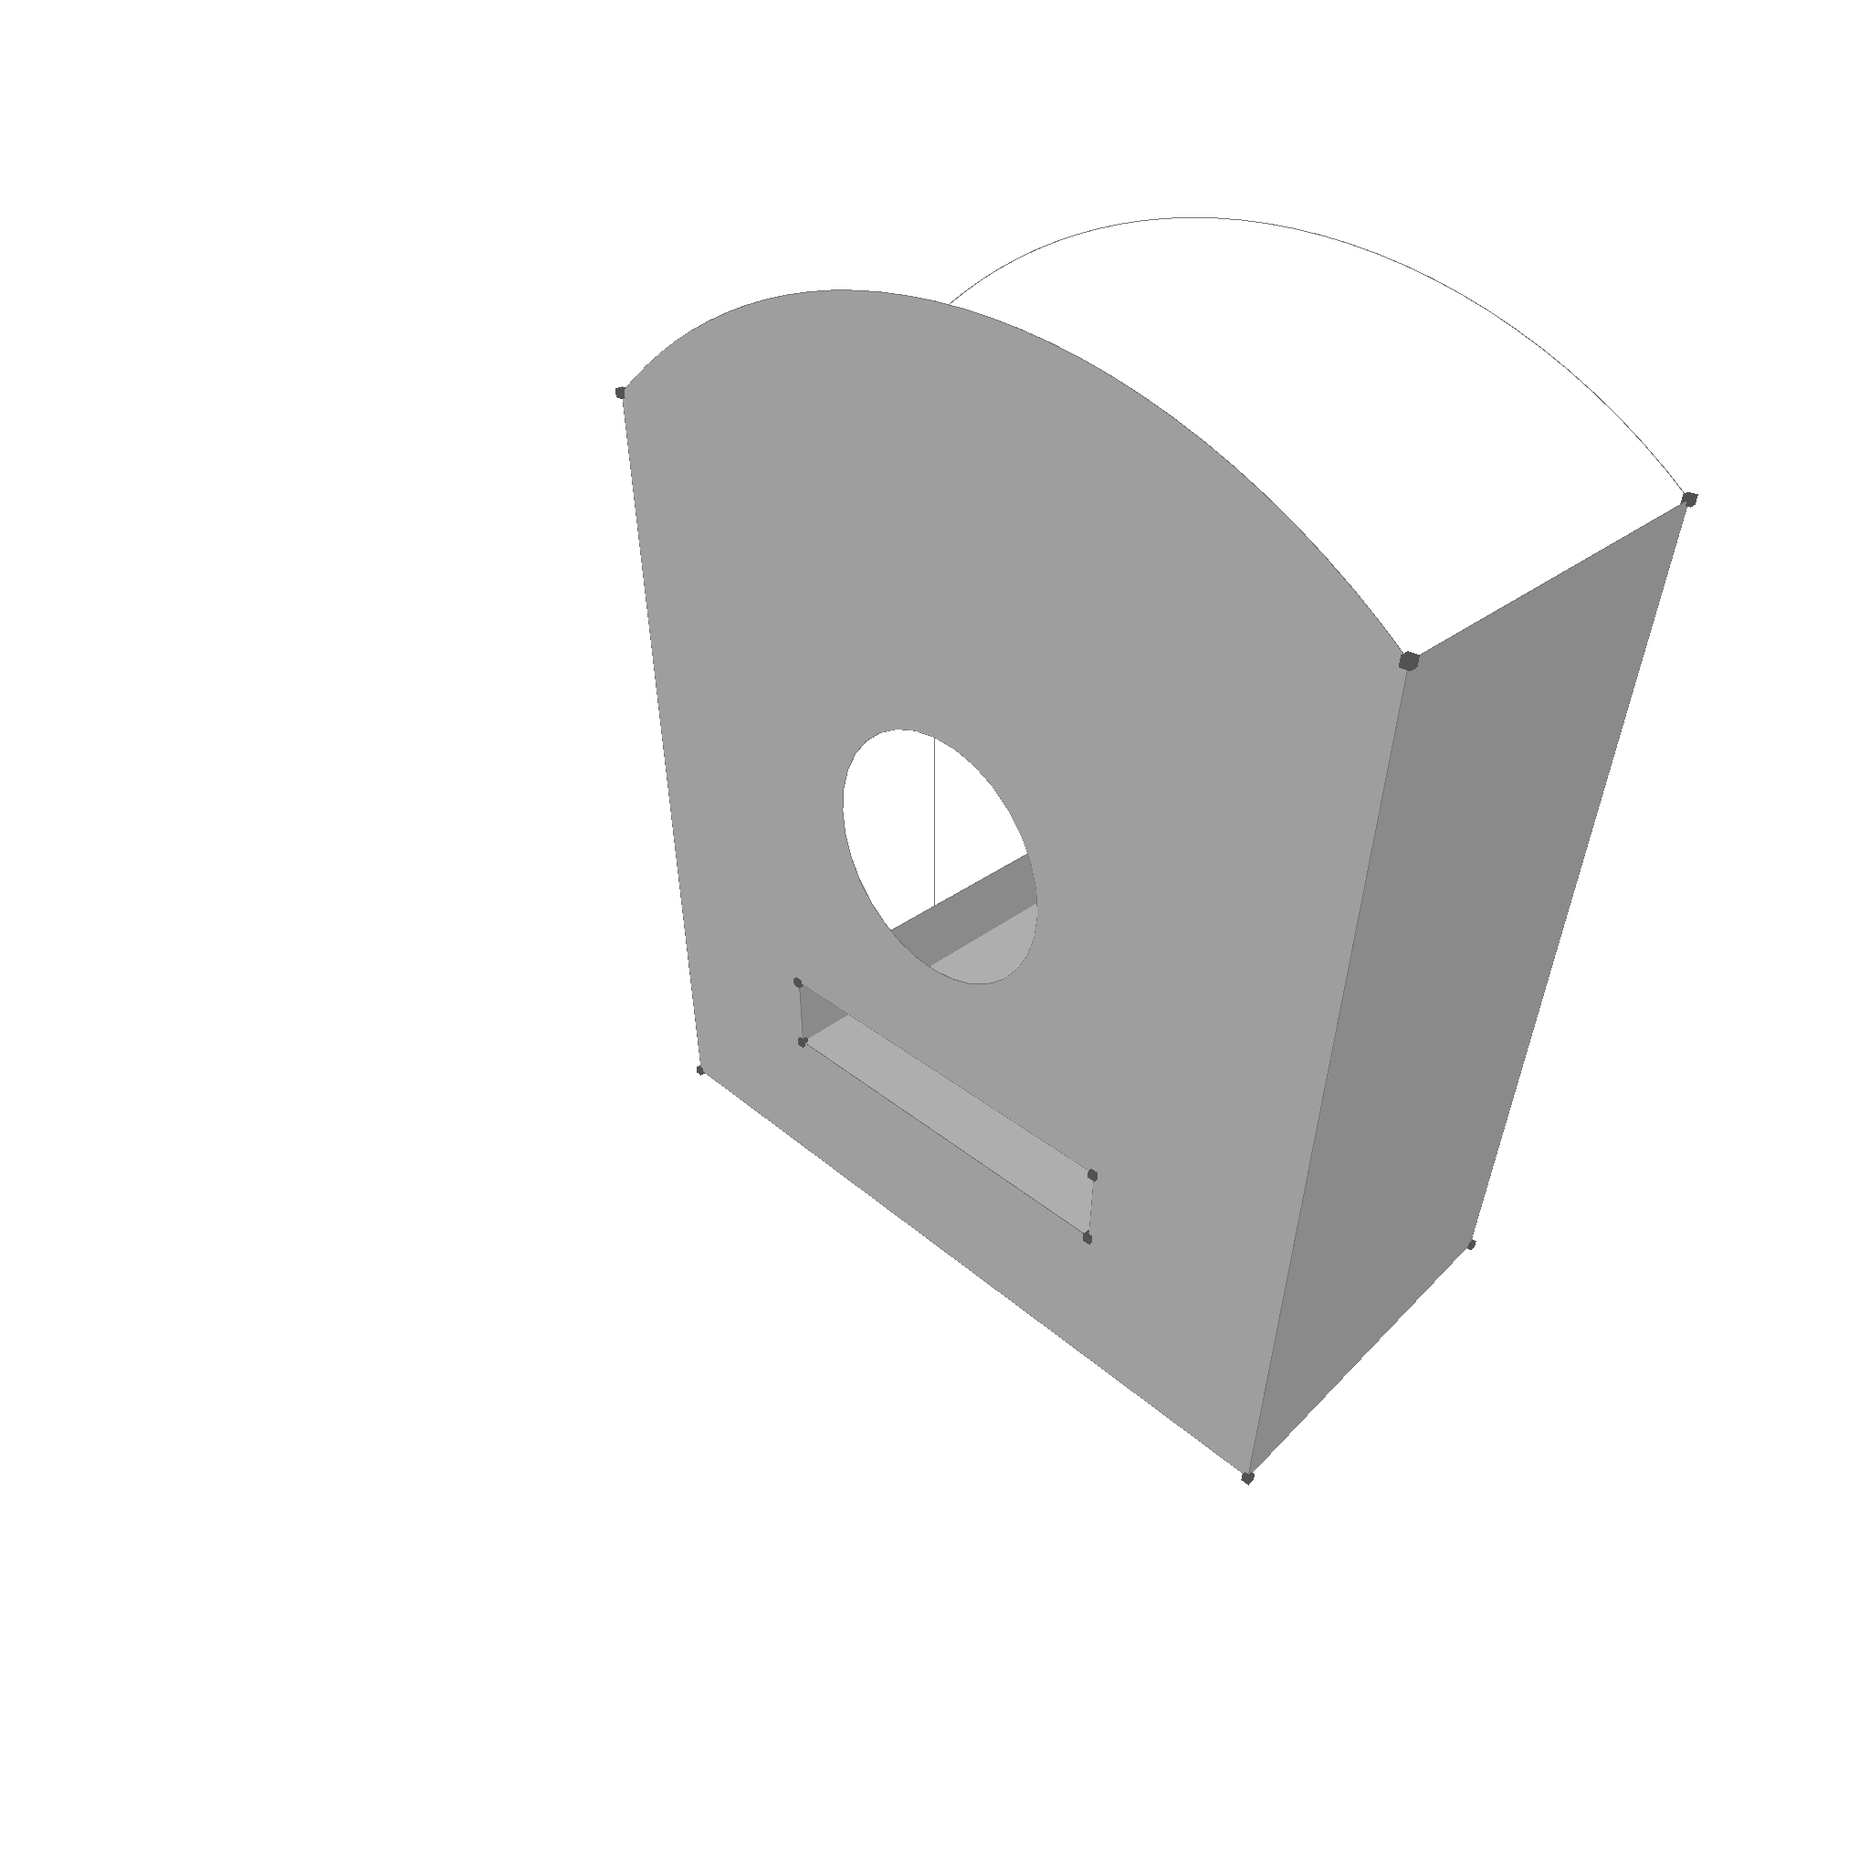
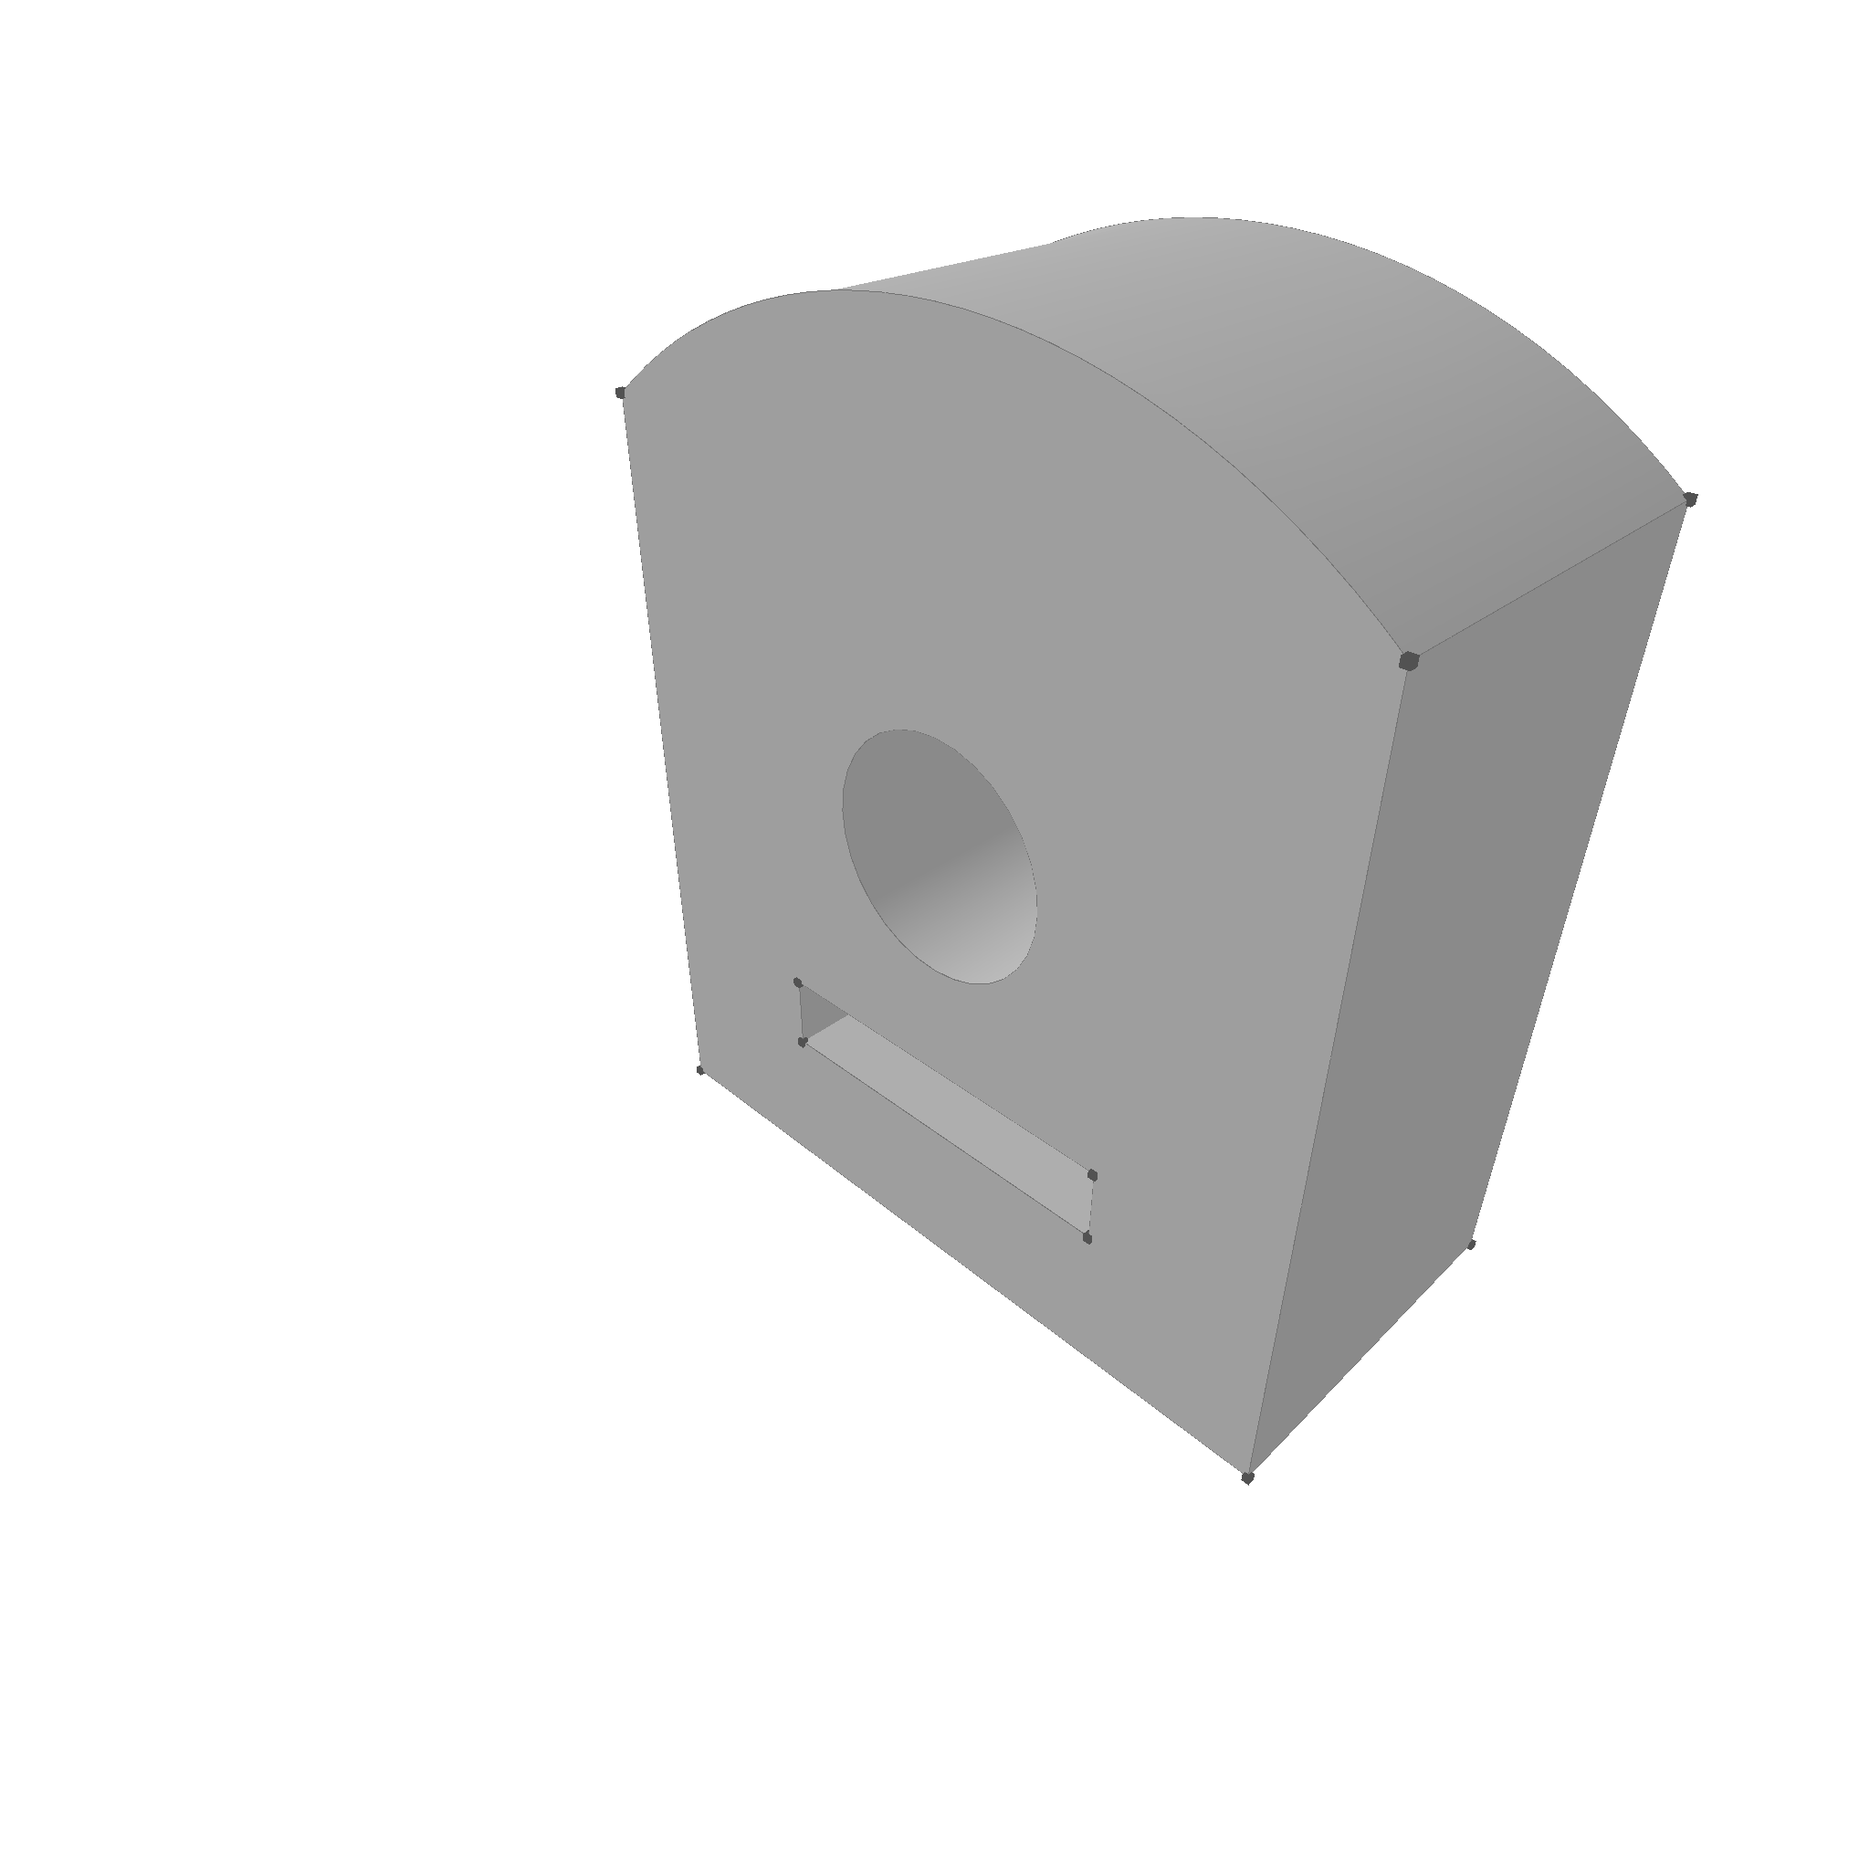
Finished adding cylinder

Changed region(s): [[0.4688, 0.0938, 0.9062, 0.3438], [0.4375, 0.375, 0.5625, 0.5312]]

diff --git a/crates/modern-brep-kernel-book/src/graphics/topology/face.rs b/crates/modern-brep-kernel-book/src/graphics/topology/face.rs
@@ -1,17 +1,19 @@
 #[cfg(test)]
 mod tests {
 
+    use core::f64;
     use std::rc::Rc;
 
     use geop_geometry::{
         points::point::Point,
-        surfaces::{plane::Plane, surface::Surface},
+        surfaces::{cylinder, plane::Plane, surface::Surface},
+        transforms::Transform,
     };
     use geop_topology::{
         primitive_objects::{
             curves::rectangle::primitive_rectangle_curve,
             edges::{arc::primitive_arc, circle::primitive_circle, line::primitive_line},
-            faces::sphere::primitive_sphere,
+            faces::{cylinder::primitive_cylinder, sphere::primitive_sphere},
         },
         topology::{
             contour::Contour,
@@ -69,6 +71,54 @@ mod tests {
         scene.faces.push((sphere, Color::light_gray()));
         scene
     }
+
+    fn cylinder_scene1() -> Scene {
+        let mut scene = Scene::new(vec![], vec![], vec![], vec![]);
+        let mut cylinder = primitive_cylinder(Point::zero(), Point::unit_z(), 1.0);
+
+        cylinder.boundary = Some(Contour::new(vec![primitive_circle(
+            Point::new(0.0, 0.0, -2.0),
+            Point::unit_z(),
+            1.0,
+        )]));
+
+        cylinder.holes.push(Contour::new(vec![primitive_circle(
+            Point::new(0.0, 0.0, 2.0),
+            -Point::unit_z(),
+            1.0,
+        )]));
+
+        scene.faces.push((cylinder, Color::light_gray()));
+        scene
+    }
+
+    fn cylinder_scene2() -> Scene {
+        let mut scene = Scene::new(vec![], vec![], vec![], vec![]);
+        let mut cylinder = primitive_cylinder(Point::zero(), Point::unit_z(), 1.0);
+
+        cylinder = cylinder.flip();
+        cylinder.boundary = Some(Contour::new(vec![primitive_circle(
+            Point::new(0.0, 0.0, -2.0),
+            -Point::unit_z(),
+            1.0,
+        )]));
+
+        cylinder.holes.push(Contour::new(vec![primitive_circle(
+            Point::new(0.0, 0.0, 2.0),
+            Point::unit_z(),
+            1.0,
+        )]));
+        cylinder = cylinder.transform(
+            Transform::from_translation(Point::new(0.3, -0.45, 0.12))
+                * Transform::from_euler_angles(-90.0 / 180.0 * f64::consts::PI, 0.0, 0.0), // * Transform::from_scale(Point::new(0.7, 0.7, 0.7)),
+        );
+
+        // cylinder = cylinder.transform(Transform::from_scale(Point::new(0.7, 0.7, 0.7)));
+
+        scene.faces.push((cylinder, Color::light_gray()));
+        scene
+    }
+
     use geop_wgpu::headless_renderer::HeadlessRenderer;
     use rstest::rstest;
 
@@ -130,6 +180,66 @@ mod tests {
                 true,
                 Point::new(4.0, -4.0, 0.0),
                 std::path::Path::new("src/generated_images/topology/face2wire.png"),
+            )
+            .await;
+    }
+
+    #[rstest]
+    async fn test_face3(#[future] renderer: Box<HeadlessRenderer>) {
+        let scene = cylinder_scene1();
+        let mut renderer = renderer.await;
+        renderer
+            .render_to_file(
+                &scene,
+                false,
+                false,
+                Point::new(3.0, -3.0, 3.0),
+                std::path::Path::new("src/generated_images/topology/face3.png"),
+            )
+            .await;
+    }
+
+    #[rstest]
+    async fn test_face3wire(#[future] renderer: Box<HeadlessRenderer>) {
+        let scene = cylinder_scene1();
+        let mut renderer = renderer.await;
+        renderer
+            .render_to_file(
+                &scene,
+                false,
+                true,
+                Point::new(3.0, -3.0, 3.0),
+                std::path::Path::new("src/generated_images/topology/face3wire.png"),
+            )
+            .await;
+    }
+
+    #[rstest]
+    async fn test_face4(#[future] renderer: Box<HeadlessRenderer>) {
+        let scene = cylinder_scene2();
+        let mut renderer = renderer.await;
+        renderer
+            .render_to_file(
+                &scene,
+                false,
+                false,
+                Point::new(3.0, -3.0, 3.0),
+                std::path::Path::new("src/generated_images/topology/face4.png"),
+            )
+            .await;
+    }
+
+    #[rstest]
+    async fn test_face4wire(#[future] renderer: Box<HeadlessRenderer>) {
+        let scene = cylinder_scene2();
+        let mut renderer = renderer.await;
+        renderer
+            .render_to_file(
+                &scene,
+                false,
+                true,
+                Point::new(3.0, -3.0, 3.0),
+                std::path::Path::new("src/generated_images/topology/face4wire.png"),
             )
             .await;
     }

diff --git a/crates/geop-topology/src/topology/face/mod.rs b/crates/geop-topology/src/topology/face/mod.rs
@@ -169,7 +169,12 @@ impl std::fmt::Display for Face {
                     p.basis,
                     p.u_slope.cross(p.v_slope)
                 )?;
-                writeln!(f, "Boundary: {:?}", self.boundary)?;
+                if let Some(boundary) = &self.boundary {
+                    writeln!(f, "Boundary:")?;
+                    for edge in boundary.edges.iter() {
+                        writeln!(f, "  {}", edge)?;
+                    }
+                }
                 for contour in self.holes.iter() {
                     writeln!(f, "Hole:")?;
                     for edge in contour.edges.iter() {
@@ -180,8 +185,20 @@ impl std::fmt::Display for Face {
             Surface::Sphere(_s) => {
                 writeln!(f, "sphere is still todo")?;
             }
-            Surface::Cylinder(_c) => {
-                writeln!(f, "cylinder is still todo")?;
+            Surface::Cylinder(c) => {
+                writeln!(f, "Cylinder at bases = {:?} with extend_dir = {:?}, radius = {:?} and normal direction = {:?}", c.basis, c.extend_dir, c.radius, c.normal_outwards)?;
+                if let Some(boundary) = &self.boundary {
+                    writeln!(f, "Boundary:")?;
+                    for edge in boundary.edges.iter() {
+                        writeln!(f, "  {}", edge)?;
+                    }
+                }
+                for contour in self.holes.iter() {
+                    writeln!(f, "Hole:")?;
+                    for edge in contour.edges.iter() {
+                        writeln!(f, "  {}", edge)?;
+                    }
+                }
             }
         };
         Ok(())

diff --git a/crates/geop-topology/src/operations/extrude.rs b/crates/geop-topology/src/operations/extrude.rs
@@ -100,15 +100,25 @@ pub fn extrude(start_face: Face, direction: Point) -> Volume {
                     normal_outwards,
                 ));
 
-                let contour = Contour::new(
-                    vec![right, Some(top), left, Some(bottom)]
-                        .drain(..)
-                        .filter_map(|f| f)
-                        .collect(),
-                );
+                match (left, right) {
+                    (Some(left), Some(right)) => {
+                        let contour = Contour::new(vec![right, top, left, bottom]);
 
-                let face = Face::new(Some(contour), vec![], Rc::new(cylinder));
-                faces.push(face);
+                        let face = Face::new(Some(contour), vec![], Rc::new(cylinder));
+                        faces.push(face);
+                    }
+                    (None, None) => {
+                        let contour = Contour::new(vec![top]);
+
+                        let face = Face::new(
+                            Some(contour),
+                            vec![Contour::new(vec![bottom])],
+                            Rc::new(cylinder),
+                        );
+                        faces.push(face);
+                    }
+                    _ => todo!("Not implemented"),
+                }
             }
             Curve::Ellipse(_) => todo!("Implement this"),
             Curve::Helix(_) => panic!("Cannot extrude helix"),

diff --git a/crates/geop-rasterize/src/face.rs b/crates/geop-rasterize/src/face.rs
@@ -313,6 +313,7 @@ pub fn check_triangle(
 
 pub fn rasterize_face_into_triangle_list(face: &Face, color: Color) -> TriangleBuffer {
     println!("/////////////////////////////////////////////////////////");
+    println!("Rasterizing face {}", face);
     // Now we have to divide the face into triangles. First rasterize the boundaries. This will give us a set of open edges to work with
     let mut contours = Vec::<EdgeBuffer>::new();
     if let Some(boundary) = &face.boundary {
@@ -388,13 +389,13 @@ pub fn rasterize_face_into_triangle_list(face: &Face, color: Color) -> TriangleB
     let mut processed_edges = Vec::<RenderEdge>::new();
     let mut counter = 0;
     while let Some(edge) = open_edges.pop_front() {
-        println!(
-            "Counter: {} Open edges: {} Result len: {} Processed edges: {}",
-            counter,
-            open_edges.len(),
-            triangles.len(),
-            processed_edges.len()
-        );
+        // println!(
+        //     "Counter: {} Open edges: {} Result len: {} Processed edges: {}",
+        //     counter,
+        //     open_edges.len(),
+        //     triangles.len(),
+        //     processed_edges.len()
+        // );
         if processed_edges.contains(&edge) {
             continue;
         }

diff --git a/crates/geop-geometry/src/curves/helix.rs b/crates/geop-geometry/src/curves/helix.rs
@@ -17,7 +17,7 @@ impl Helix {
     pub fn new(basis: Point, pitch: Point, radius: Point, right_winding: bool) -> Helix {
         assert!(
             pitch.dot(radius).abs() < EQ_THRESHOLD,
-            "Radius and normal must be orthogonal"
+            "Radius and pitch must be orthogonal"
         );
         Helix {
             basis,
@@ -32,10 +32,11 @@ impl Helix {
     }
 
     pub fn transform(&self, transform: Transform) -> Self {
+        let basis_old = self.basis;
         let basis = transform * self.basis;
-        let normal = transform * (self.pitch + self.basis) - basis;
-        let radius = transform * (self.radius + self.basis) - basis;
-        Helix::new(basis, normal.normalize(), radius, self.right_winding)
+        let pitch = transform * (self.pitch + basis_old) - basis;
+        let radius = transform * (self.radius + basis_old) - basis;
+        Helix::new(basis, pitch, radius, self.right_winding)
     }
 
     pub fn neg(&self) -> Helix {

diff --git a/crates/geop-topology/src/topology/edge/mod.rs b/crates/geop-topology/src/topology/edge/mod.rs
@@ -119,7 +119,11 @@ impl Display for Edge {
     fn fmt(&self, f: &mut Formatter) -> std::fmt::Result {
         match &self.curve {
             Curve::Line(_line) => write!(f, "Line {:?} - {:?}", self.start, self.end),
-            Curve::Circle(_circle) => write!(f, "Circle {:?} - {:?}", self.start, self.end),
+            Curve::Circle(circle) => write!(
+                f,
+                "Circle (at {:?} with normal {:?} and radius {:?}) {:?} - {:?}",
+                circle.basis, circle.normal, circle.radius, self.start, self.end
+            ),
             Curve::Ellipse(_) => write!(f, "Ellipse {:?} - {:?}", self.start, self.end),
             Curve::Helix(_) => write!(f, "Helix {:?} - {:?}", self.start, self.end),
         }

diff --git a/crates/geop-geometry/src/surfaces/cylinder.rs b/crates/geop-geometry/src/surfaces/cylinder.rs
@@ -131,6 +131,8 @@ impl SurfaceLike for Cylinder {
         if angle < EQ_THRESHOLD {
             return Some(height_diff * self.extend_dir);
         }
+        let x = x.normalize();
+        let y = y.normalize();
 
         let dir = y - x.dot(y) * x;
         assert!(dir.dot(self.extend_dir).abs() < EQ_THRESHOLD);

diff --git a/crates/geop-geometry/src/points/point.rs b/crates/geop-geometry/src/points/point.rs
@@ -67,6 +67,9 @@ impl Point {
         if dot_norm > 1.0 - EQ_THRESHOLD {
             return 0.0;
         }
+        if dot_norm < -1.0 + EQ_THRESHOLD {
+            return std::f64::consts::PI;
+        }
         dot_norm.acos()
     }
 

diff --git a/crates/modern-brep-kernel-book/src/chapter_3_topology_faces.md b/crates/modern-brep-kernel-book/src/chapter_3_topology_faces.md
@@ -10,6 +10,8 @@ pub struct Face {
 }
 ```
 
+> TODO: Faces should have boundaries Vec<Contour>, because even a hole can be choosen as a boundary. The only thing that is important is that the face is one continous patch of space, not multiple. This is assumed in the following algorithms.
+
 A face can look something like this:
 
 ![Face](./generated_images/topology/face1.png)
@@ -26,3 +28,8 @@ In wireframe mode, you see how the face is triangulated for rendering
 
 ![Face Half Sphere Wireframe](./generated_images/topology/face2wire.png)
 
+Here are some cylinder faces. The cylinder is interesting, because it has a boundary and a hole, but we can choose which one is which. The top, or the bottom ring can be the boundary, with the other being the hole.
+
+![Face Examples](./generated_images/topology/face3.png)
+
+![Face With Hole](./generated_images/topology/face4.png)

diff --git a/crates/modern-brep-kernel-book/src/chapter_3_topology_shells.md b/crates/modern-brep-kernel-book/src/chapter_3_topology_shells.md
@@ -9,3 +9,5 @@ pub struct Shell {
 ```
 
 ![Shell](./generated_images/topology/shell1.png)
+
+![Shell2](./generated_images/topology/shell2.png)
